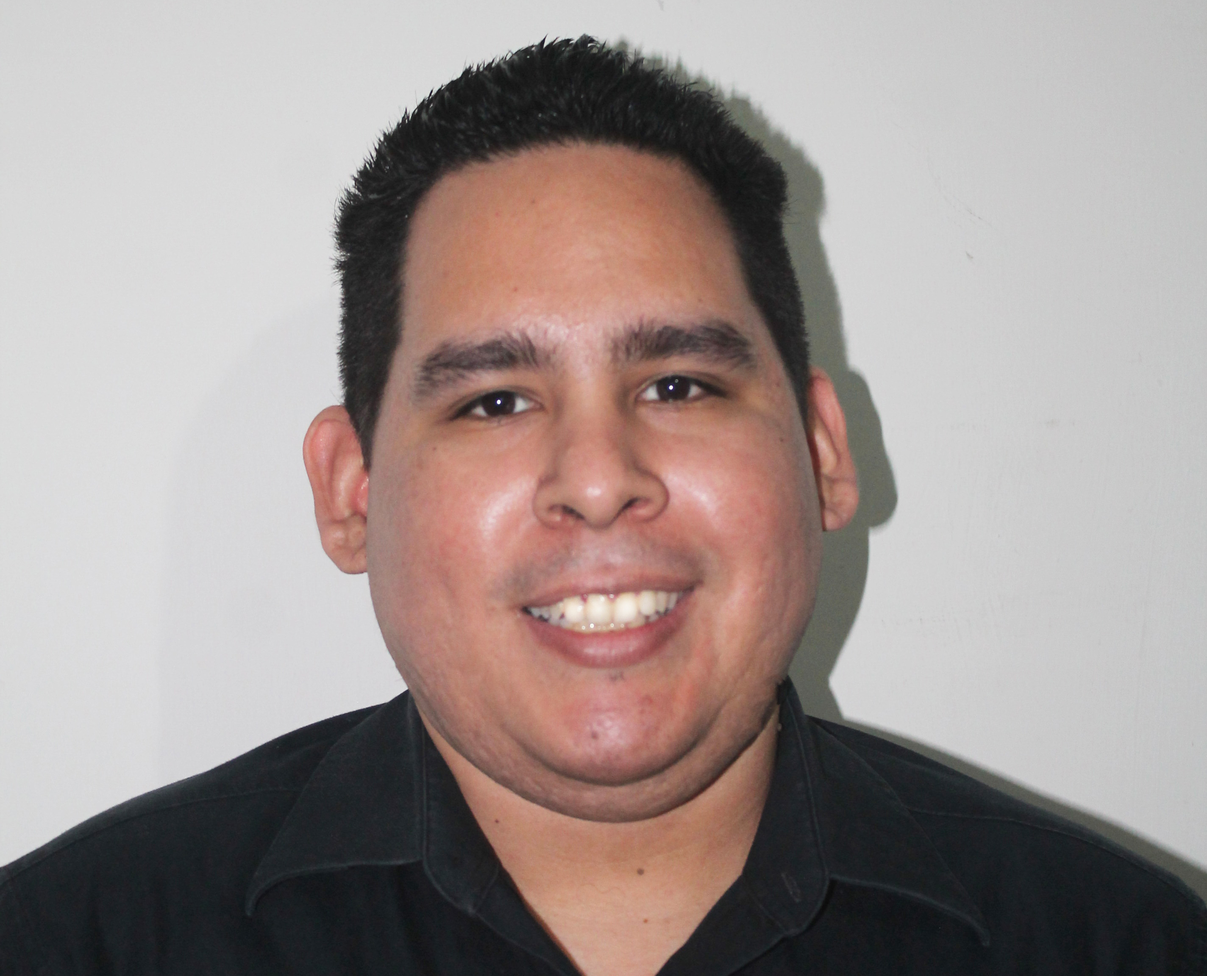
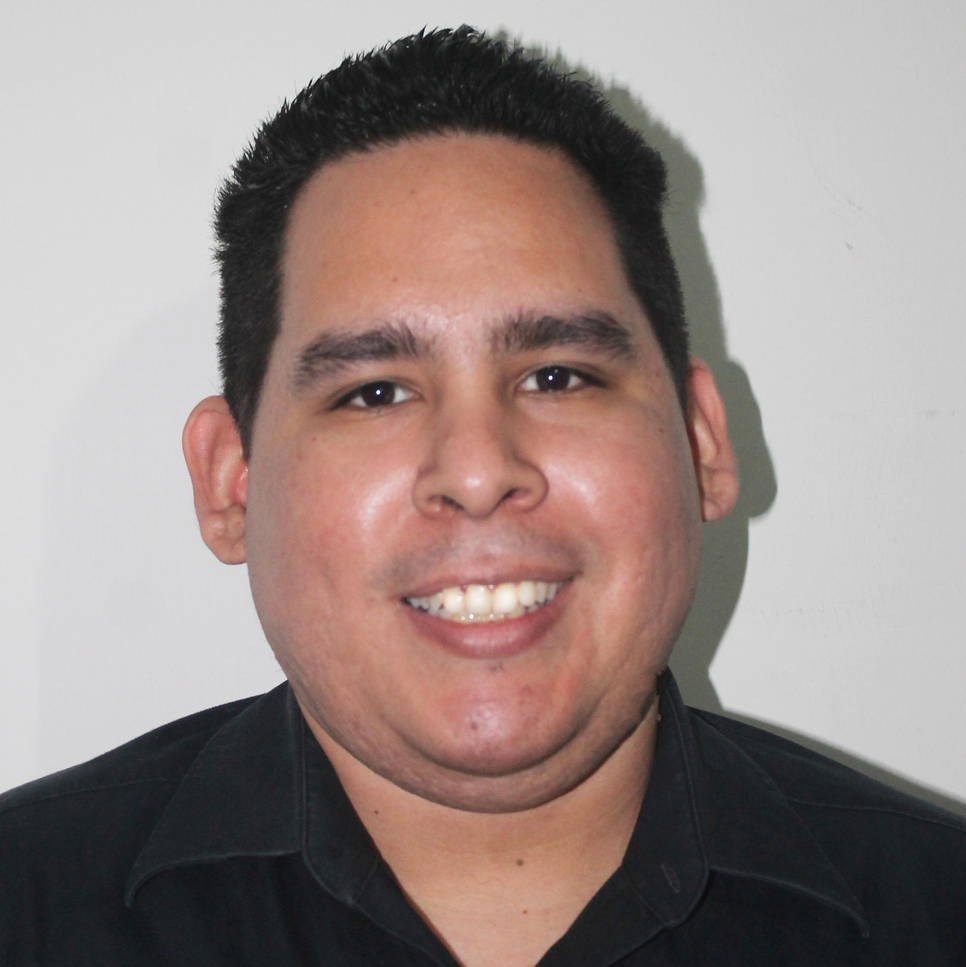
derrr

Changed region(s): [[0.0, 0.0, 1.0, 1.0]]

diff --git a/index.html b/index.html
@@ -47,7 +47,7 @@
         <h1 class="Info">Tengo 26 años, soy de <span class="infoBlanco" > El Salvador, San salvador, </span> Soy diseñador gráfico web, una idea es el comienzo de grandes <span class="infoNegro">proyectos.</span> </h1>
        </div> 
        <div class="col-lg-4 Img-perfil text-center">
-        <img src="recursos/img/Daniel r1.jpg" class="img-fluid Perfil" alt="...">
+        <img src="recursos/img/DanielPerfil.jpg" class="img-fluid Perfil" alt="...">
        </div>
     </div>
   </div> 

diff --git a/cv.html b/cv.html
@@ -58,12 +58,10 @@
   </div>
 </div>
 
-<a href="recursos/Curriculum Daniel Mejia.pdf">Descargar</a>
-
 <div class="container">
-  <div class="row"></div>
-    <div class="col-lg-12 text-center mb-5">
-      <button  class="BotonDescargarCV">Descargar</button>
+  <div class="row">
+    <div class="col-lg-12 text-center mb-5">  
+      <a href="recursos/Curriculum Daniel Mejia.pdf" target="_blank" download="CV.pdf"><button class="BotonDescargarCV">Descargar</button></a>
     </div>
   </div>
 </div>

diff --git a/css/estilos.css b/css/estilos.css
@@ -62,9 +62,9 @@ body{
   color: #414141;
 }
 .Perfil{
-  width:300px;
-  height:300px;
-  border-radius:150px;
+  width:280px;
+  height:280px;
+  border-radius:200px;
 }
 .Img-perfil{
   margin-top: 20%;
